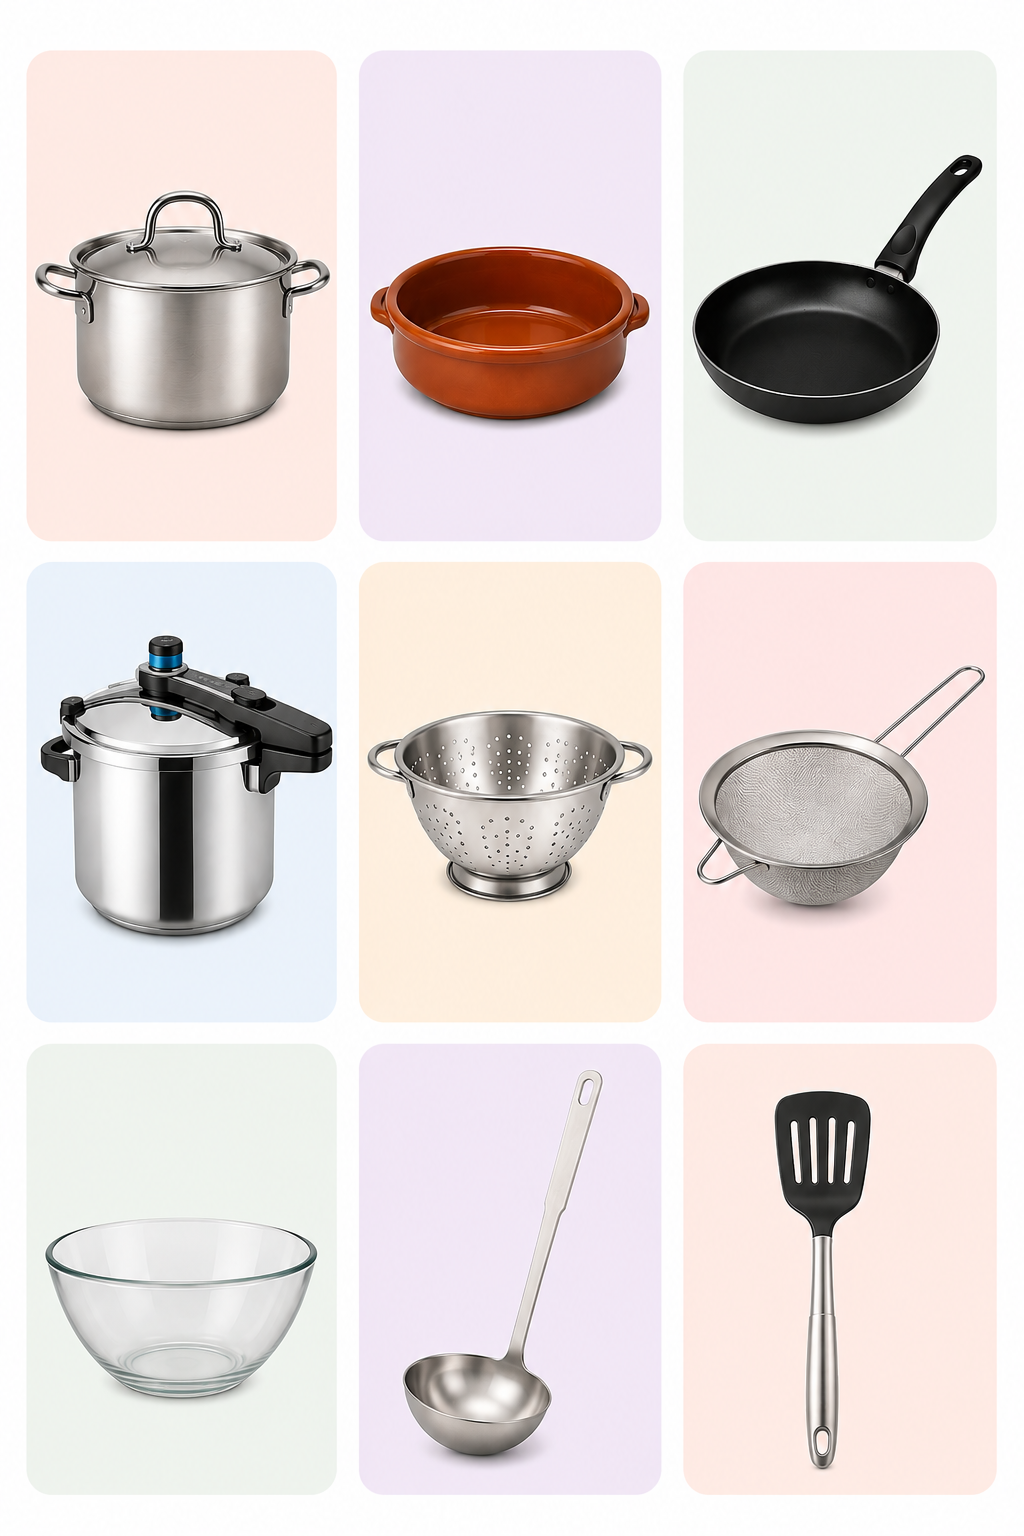
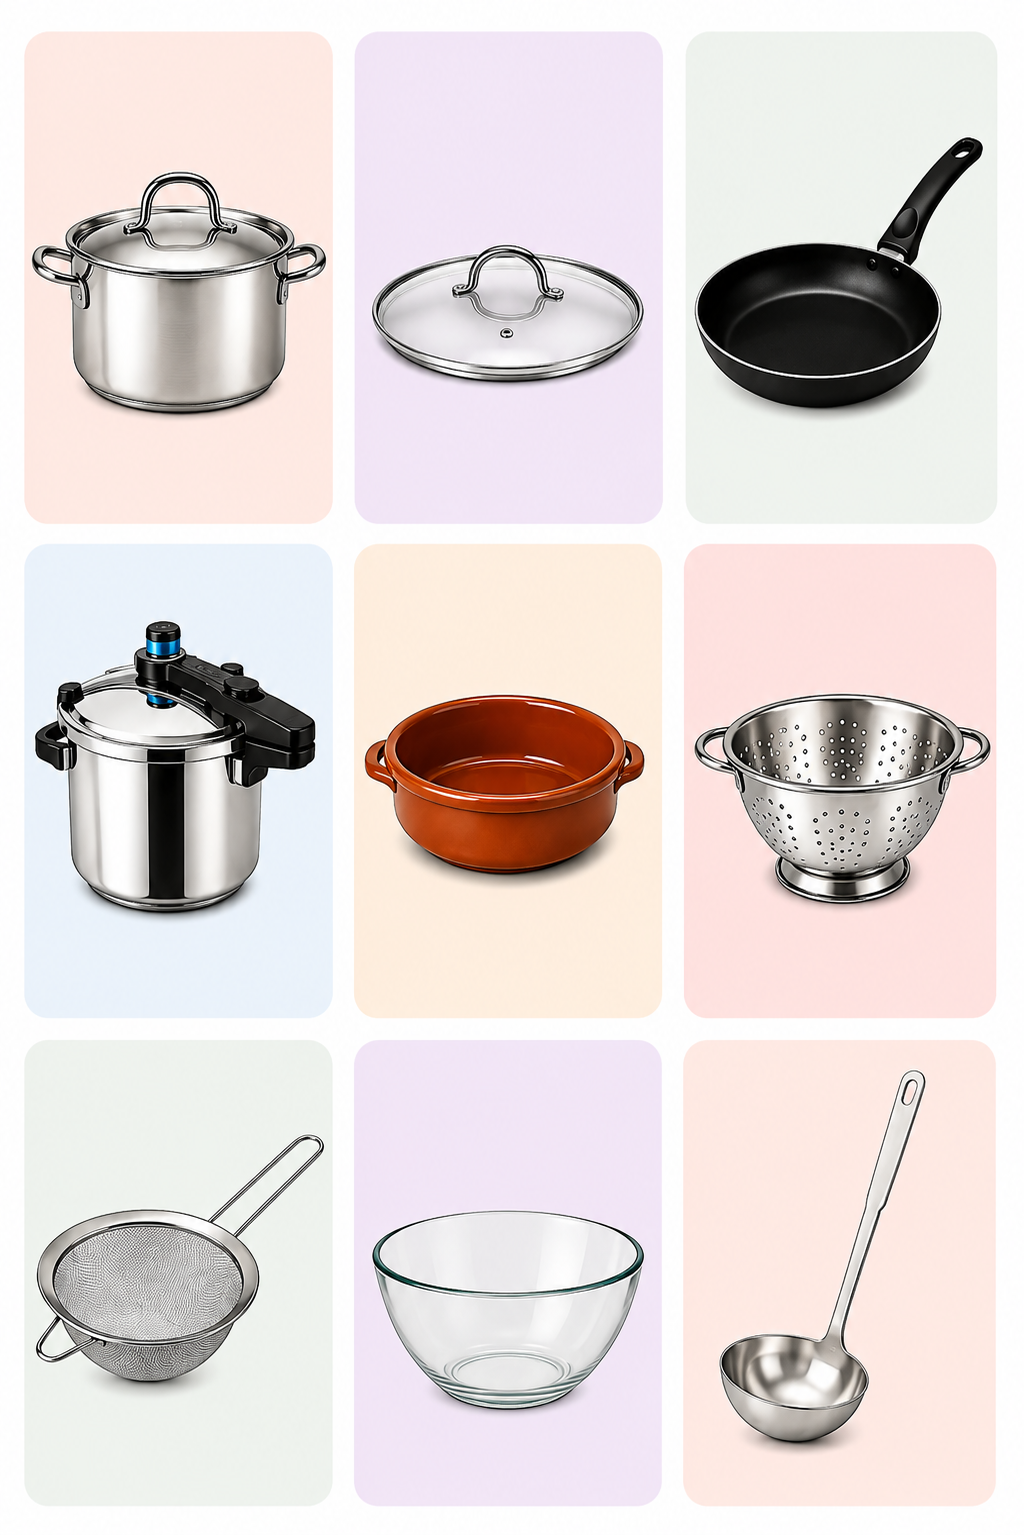
Aktualisiere cocina6

diff --git a/bilder-daten.js b/bilder-daten.js
@@ -914,14 +914,14 @@ window.APP_FOLDERS = {
         openLabel: { wort: "los utensilios de la cocina", labelX: 50, labelY: 14 },
         hotspots: [
           { wort: "la olla", clickX: 16.8, clickY: 18.3, labelX: 16.8, labelY: 10.8, areaW: 30, areaH: 31 },
-          { wort: "la cazuela", clickX: 50.0, clickY: 18.3, labelX: 50.0, labelY: 10.8, areaW: 30, areaH: 31 },
+          { wort: "la tapa", clickX: 50.0, clickY: 18.3, labelX: 50.0, labelY: 10.8, areaW: 30, areaH: 31 },
           { wort: "la sartén", clickX: 83.2, clickY: 18.3, labelX: 83.2, labelY: 10.8, areaW: 30, areaH: 31 },
           { wort: "la olla exprés", clickX: 16.8, clickY: 50.0, labelX: 16.8, labelY: 42.5, areaW: 30, areaH: 31 },
           { wort: "el colador", clickX: 50.0, clickY: 50.0, labelX: 50.0, labelY: 42.5, areaW: 30, areaH: 31 },
           { wort: "el escurridor", clickX: 83.2, clickY: 50.0, labelX: 83.2, labelY: 42.5, areaW: 30, areaH: 31 },
           { wort: "el bol para mezclar", clickX: 16.8, clickY: 81.7, labelX: 16.8, labelY: 74.2, areaW: 30, areaH: 31 },
           { wort: "el cucharón", clickX: 50.0, clickY: 81.7, labelX: 50.0, labelY: 74.2, areaW: 30, areaH: 31 },
-          { wort: "la espátula", clickX: 83.2, clickY: 81.7, labelX: 83.2, labelY: 74.2, areaW: 30, areaH: 31 }
+          { wort: "la cazuela", clickX: 83.2, clickY: 81.7, labelX: 83.2, labelY: 74.2, areaW: 30, areaH: 31 }
         ]
       }
     ]
